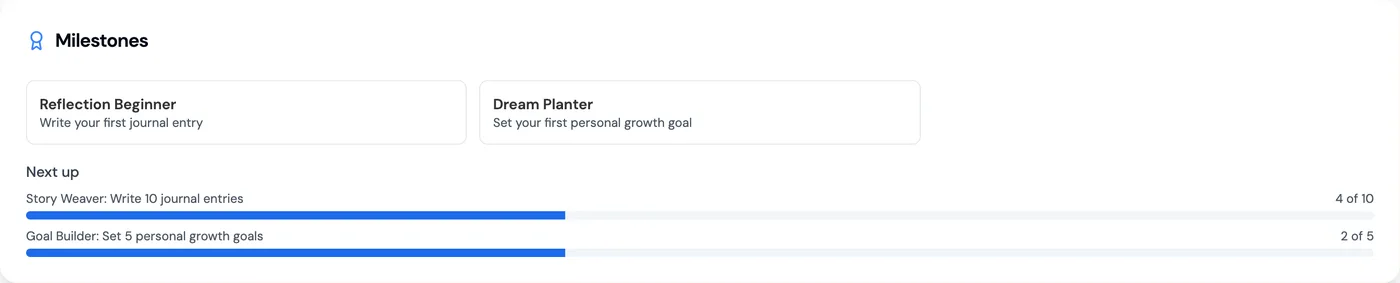
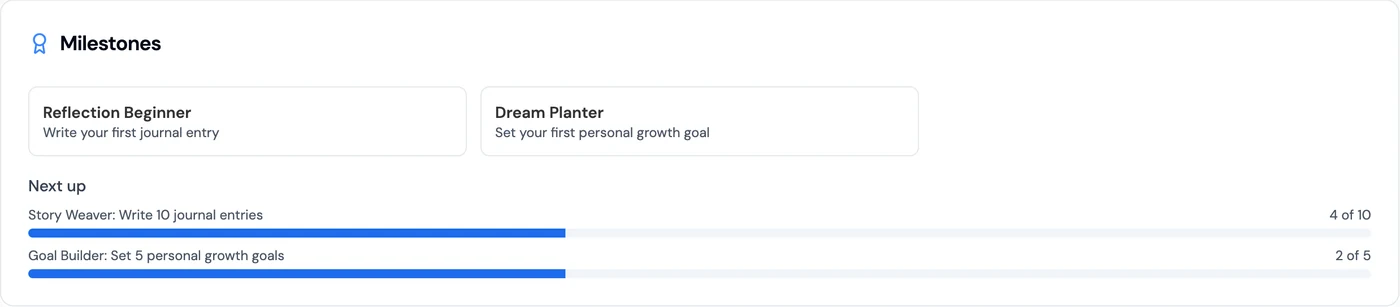
feat(screens): redesigned app screenshots across the audience and platform pages (#29)
* feat(screens): redesigned app screenshots on teacher, parent and school pages

Swap the old-UI Today's Brief, Recommendations, parent weekly activity, Trust & Privacy
and Learner Passport crops for the 2026-10-29 redesign batch, and add two new beats:
student Home with Sprig and XP on /parents, and parent Consent & Privacy on /schools.
All crops are cut and resized only (1400px WebP) from hermetic demo data.

* fix(screens): keep only redesign shots that show real app copy

The 2026-10-29 batch's Brief, Recommendations, parent Home and Passport text is
test fixture, not Sprig output, and these pages say "real Sprig responses". Restore
the previous crops and copy for those four beats; keep Trust & Privacy, Consent and
student Home.

* feat(screens): batch-b redesign shots with real Sprig output

Swap Signal & Noise, Prompt Engineering, Free Explore, the why-chain, class analytics,
both sides of the teacher-parent thread and the passport milestones for the new UI.
Replace Zoe's frame on /parents with Jordan asking Sprig for the answer (new beat
copy), and the old-UI video on /schools Evidence with a still of the Independence
Report's not-enough-yet state. Every Sprig line is verbatim from the validated
2026-10-14 showcase transcripts.

---------

diff --git a/src/data/productScreens.ts b/src/data/productScreens.ts
@@ -1,6 +1,10 @@
 // Cropped screens from the live Mentra app, shot on a fictional showcase class.
 // Source frames: marketing/carousel/<date>/ in the app repo (see the showcase doc for
 // which frames are cleared for marketing). Crops live in /public/images/product.
+// Redesigned-UI crops come from two 2026-10-29 batches. Batch 1 gives parent Trust and Consent and student Home (real app
+// copy only; its coaching text was test fixture, so its Brief, Recommendations, parent Home and Passport shots aren't used).
+// Batch b gives the student, analytics, Independence Report, message and passport crops: every Sprig line is copied
+// verbatim from the 2026-10-14 showcase transcripts (app-screenshots-2026-10-29-b/transcripts).
 
 /**
  * What the interaction on a screen feeds into the learner model. Every line must trace to code in the
@@ -93,14 +97,26 @@ export const screens = {
       goesTo: "The student's learner graph. The read itself waits until there's enough recent work",
     },
   )),
-  studentZoe: screen(
-    'student-zoe', 1400, 698, 'Student · Q&A with Sprig',
-    "Zoe answers 15 for x in 3/5 = x/20. Sprig says not quite, keeps Zoe's method of multiplying the top by 4, and asks what 3 times 4 is. Zoe answers 12, Sprig confirms x = 12 and gives a new problem to try: 2 is to 7 as x is to 35.",
-    qaSignals('Zoe'),
+  teacherIndependence: screen(
+    'teacher-independence', 1400, 799, 'Teacher · Independence Report',
+    "The teacher's Cognitive Independence Report before there's enough recent work for a read. It explains that it won't guess, so it shows not enough data yet instead of a number, and lists what it needs. Below, Turns seen so far lists Jordan's Oct 25 turns, each labelled repeated what Sprig said or with help, with a note that these aren't counted as independent work.",
+    {
+      kind: 'reads',
+      items: [
+        "Each of the student's turns, labelled: on their own, with help, or repeated what Sprig said",
+        'Only turns done on their own count as independent work; help is weighed separately',
+      ],
+      goesTo: "The student's learner graph. The read itself waits until there's enough recent work",
+    },
+  ),
+  studentAskSprig: screen(
+    'student-ask-sprig', 1400, 406, 'Student · Ask Sprig',
+    "Jordan asks Sprig to just tell him the answer to a sunlight question. Sprig says stuck is a real place to be, that it won't hand over the answer but can help him work through it, and asks what he's tried or thinks is going on. Jordan replies that plants need sunlight to grow, but he doesn't know why it matters.",
+    qaSignals('Jordan'),
   ),
   studentSignalNoise: screen(
-    'student-signal-noise', 1300, 1273, 'Student · Signal & Noise',
-    "Sprig's coaching after a student ranks three explanations of error-message design, choosing Option C first. Your Frame notes the student set out with an audience lens but ranked on depth and evidence. What You Caught credits the specific details used from Option C and asks who each piece is written for. The Thread says this is the student's first evaluation, so there's no pattern yet. Your Next Edge suggests a sentence to write about each option before ranking next time.",
+    'student-signal-noise', 1346, 987, 'Student · Signal & Noise',
+    "Sprig's coaching after a student ranks three explanations of error-message design. Your Frame notes the student expected a tension between the user's and the designer's perspective but ranked on depth and evidence quality. What You Caught credits the specific, actionable mechanics in Option C and asks who each piece is written for. The Thread says this is the student's first evaluation, so there's no pattern yet. Your Next Edge suggests writing one sentence about each option before ranking next time.",
     {
       kind: 'records',
       items: [
@@ -112,8 +128,8 @@ export const screens = {
     },
   ),
   studentWhyChain: screen(
-    'student-why-chain', 1400, 431, 'Student · Investigations',
-    "An investigation of the claim that plants in shade grow larger, darker green leaves. The student's why-chain has two levels: the plant needs bigger leaves to catch light, then it senses low light, makes more chlorophyll, and uses its energy differently. Sprig asks what has to happen first before the plant can put its energy into bigger leaves.",
+    'student-why-chain', 1400, 588, 'Student · Investigations',
+    "An investigation of the claim that plants in shade grow larger, darker green leaves. At level 1 the student says the plant makes bigger leaves to catch more light, and Sprig asks what is actually happening that causes the change. At level 2 the student says the plant senses low light, makes more chlorophyll, and uses its energy differently. Sprig asks what has to happen first before the plant can put its energy into bigger leaves.",
     {
       kind: 'records',
       items: [
@@ -125,12 +141,12 @@ export const screens = {
     },
   ),
   studentPrompting: screen(
-    'student-prompting', 1400, 647, 'Student · Prompt Engineering',
-    "Sprig's feedback on a student's prompt for the Haiku Teacher challenge, which asks for a prompt that includes 2 to 3 example haikus. Score 42%. It credits the everyday topics and the 5-7-5 rule, then points out the prompt asks the AI for examples without including any, and suggests writing one haiku and putting it in the prompt.",
+    'student-prompting', 1400, 716, 'Student · Prompt Engineering',
+    "Sprig's feedback on a student's prompt asking an AI for example haikus. Score 42%. What worked: everyday topics and the 5-7-5 rule. To improve: the prompt asks for examples without including any, so Sprig suggests writing one haiku and putting it in the prompt.",
   ),
   studentExploration: screen(
-    'student-exploration', 1400, 244, 'Student · Free Explore',
-    "In an open exploration about a carnival game with a 1-in-10 chance to win, a student asks whether playing 10 times guarantees a win. Sprig says it's not a guarantee: each turn is its own 1-in-10 chance, you'd expect to win about once on average, and some people win twice or not at all. It suggests a try-it with ten objects, one marked with an X.",
+    'student-exploration', 1400, 696, 'Student · Free Explore',
+    "Free Explore on a carnival game: $3 to play for a 1-in-10 chance to win $20. Sprig explains expected value. The student asks whether playing 10 times guarantees a win. Sprig says it's not a guarantee: each turn is its own 1-in-10 chance, you'd expect to win about once on average, and some people win twice or not at all. It suggests a try-it with ten objects, one marked with an X.",
     {
       kind: 'records',
       items: [
@@ -155,16 +171,16 @@ export const screens = {
     },
   ),
   parentTrust: screen(
-    'parent-trust', 1400, 479, 'Parent · Trust & Privacy',
-    "A parent's Trust & Privacy page: an active consent record listing five purposes, with partner sharing and anonymized product use turned off, and a toggle for each purpose explaining what turning it off does.",
+    'parent-trust', 1400, 631, 'Parent · Trust & Privacy',
+    "A parent's Trust & Privacy page for their child Maya: consent active since Aug 14, 2026, and a toggle for each of six purposes, from running Mentra to product update emails. Each one says what it allows and what turning it off changes. Partner sharing and product emails are off.",
   ),
   teacherBrief: screen(
     'teacher-brief', 1400, 517, "Teacher · Today's Brief",
     "A teacher's Today's Brief: class signals written as plain sentences, and one recommendation that says there isn't enough evidence yet, so it will keep watching instead of guessing.",
   ),
   teacherAnalytics: screen(
-    'teacher-analytics', 1400, 782, 'Teacher · Investigation analytics',
-    "Analytics for one investigation: 4 of 6 students growing, the class's biggest room to grow and a suggested next move, a class radar across five reasoning skills from 6 students and 23 sessions, and the levels where the class most often got stuck.",
+    'teacher-analytics', 1400, 921, 'Teacher · Investigation analytics',
+    "Analytics for a Systems Thinking investigation, why do some streets flood after a storm: 4 of 9 students growing, 3 steady, 2 hitting a tough stretch and 1 just started, the class's biggest room to grow and a suggested next move, a class radar across five reasoning skills from 10 students and 31 sessions, and the levels where the class most often got stuck.",
     {
       kind: 'reads',
       items: [
@@ -183,16 +199,24 @@ export const screens = {
     "A two-minute suggestion for Jordan's parent: at dinner, ask what Jordan figured out this week, then just listen. It notes it's a general tip because no standout moments came up this week, and offers four feedback buttons.",
   ),
   teacherParentMessage: screen(
-    'teacher-parent-message', 1400, 978, 'Teacher · Messages with families',
-    "Ms. Alvarez's message to Jordan's parent about Jordan's sunlight conversation with Sprig, quoting Jordan's own words from it and suggesting a question to ask at home, with the parent's reply.",
+    'teacher-parent-message', 1400, 1056, 'Teacher · Messages with families',
+    "Ms. Alvarez's message to Jordan's parent, Sam, about Jordan's sunlight conversation with Sprig. It quotes Jordan's own words and suggests asking what would happen to a plant kept in the dark. The parent's reply is below.",
   ),
   parentTeacherMessage: screen(
-    'parent-teacher-message', 1400, 1033, 'Parent · Messages with the teacher',
-    "The parent's view of the same thread: the teacher's message about Jordan's sunlight conversation with Sprig, and the parent's reply saying they'll ask about the plant in the dark at dinner.",
+    'parent-teacher-message', 1400, 1105, 'Parent · Messages with the teacher',
+    "The parent's view of the same thread: Ms. Alvarez's message about Jordan's sunlight conversation with Sprig, and the parent's reply saying they'll ask about the plant in the dark at dinner.",
   ),
   parentPassport: screen(
-    'parent-passport', 1400, 283, 'Parent · Learner Passport',
+    'parent-passport', 1400, 307, 'Parent · Learner Passport',
     "Milestones on a child's Learner Passport, as the parent sees it: Reflection Beginner and Dream Planter reached, with Story Weaver at 4 of 10 journal entries and Goal Builder at 2 of 5 goals next.",
+  ),
+  parentConsent: screen(
+    'parent-consent', 1400, 720, 'Parent · Consent & Privacy',
+    "A parent's Consent & Privacy page. A note says the child can use Sprig only with the parent's OK, which they can give, review or withdraw at any time. Maya R, grade 6 and under 13, has active consent with History, Withdraw consent and Request Data Deletion buttons. Below, the parent can export the child's last 30 days of AI conversations, redacted for privacy, as JSON or for printing.",
+  ),
+  studentHome: screen(
+    'student-home', 1400, 755, 'Student · Home',
+    "A student's home page: Good afternoon, Maya, with 1 of 3 quests done. Her Sprig is at level 3, 110 XP from level 4. A card offers to continue yesterday's Ask Sprig question, why does ice float. Today's quests: ask Sprig a why-question (done, 15 XP), write one journal reflection, and explore an idea spark.",
   ),
 } satisfies Record<string, Screen>;
 

diff --git a/src/data/audiences.ts b/src/data/audiences.ts
@@ -87,9 +87,15 @@ export const audiences: Audience[] = [
     proof: [
       {
         eyebrow: 'What your child sees',
-        title: "Doesn't let a wrong answer slide",
-        text: 'When your child gets it wrong, Sprig says "not quite", keeps what they got right, and has them check the step that slipped. Then it hands over a new problem to try alone.',
-        screen: screens.studentZoe,
+        title: "Won't just hand over the answer",
+        text: "When your child asks Sprig for the answer, it asks what they've tried and what they think is going on. Then it works through it with them, one hint at a time.",
+        screen: screens.studentAskSprig,
+      },
+      {
+        eyebrow: 'Their home screen',
+        title: 'A Sprig that grows with them',
+        text: 'Your child earns XP for asking why, writing a reflection or exploring an idea, not for right answers. Their Sprig levels up as they go, and they pick up where they left off.',
+        screen: screens.studentHome,
       },
       {
         eyebrow: 'From the teacher',
@@ -147,7 +153,13 @@ export const audiences: Audience[] = [
         eyebrow: 'Evidence',
         title: "Honest about what it doesn't know yet",
         text: "Until there's enough recent work, a student's read says so instead of producing a number your board can't trust. The turns it has seen are listed and labelled, and a turn where the student only repeated Sprig isn't counted as independent work.",
-        screen: screens.teacherTurnTrace,
+        screen: screens.teacherIndependence,
+      },
+      {
+        eyebrow: 'Family consent',
+        title: 'Parents hold the keys',
+        text: "A child under 13 uses Sprig only with a parent's OK. Parents can review or withdraw consent, request deletion, and download their child's recent AI conversations.",
+        screen: screens.parentConsent,
       },
     ],
     pilot: [
